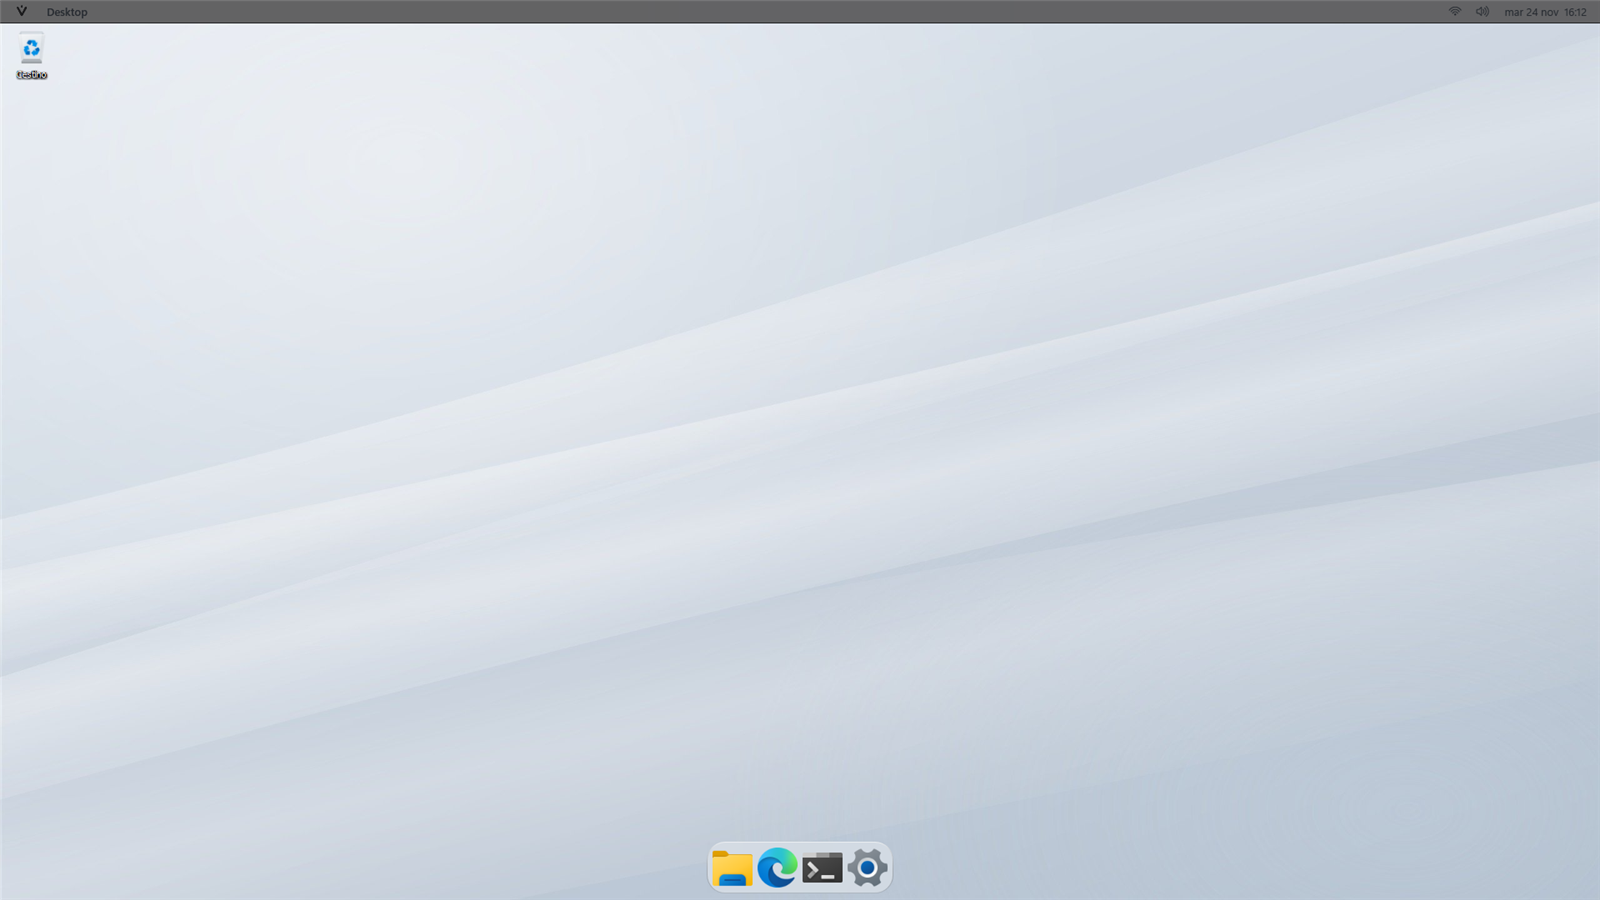
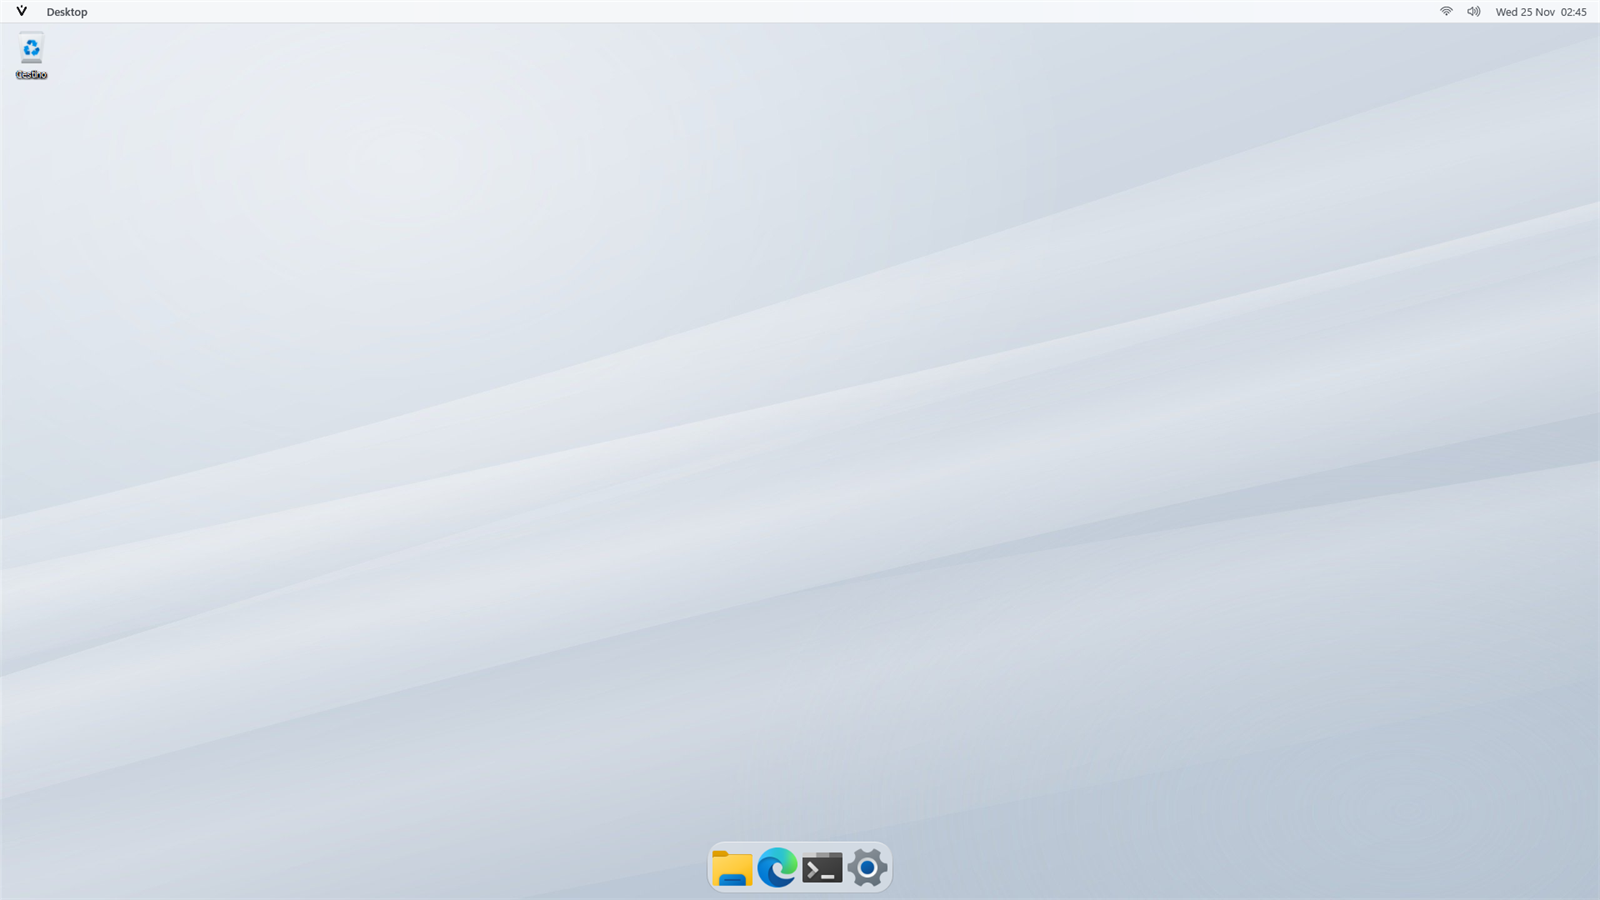
Refresh the README screenshots and add the settings window
New Aqua shots (dark, light, details) taken in English through a new
debug self-test step, culture:<name>, and a dark/light shot of the
settings window. Windows settings were restored with no differences.

Changed region(s): [[0.0, 0.0, 1.0, 0.0311]]

diff --git a/src/Veneer.App/SelfTest.cs b/src/Veneer.App/SelfTest.cs
@@ -15,7 +15,7 @@ namespace Veneer.App;
 /// <c>settings-reset:&lt;surface&gt;:&lt;key&gt;</c>, <c>settings-install:&lt;zip, with | for the drive colon&gt;</c>,
 /// <c>settings-report</c> (first report lines to the log), <c>settings-rename:&lt;old&gt;:&lt;new&gt;</c>, <c>settings-close</c>,
 /// <c>pin-offer[:first]</c> (the taskbar import offer; <c>first</c> saves the first-run flag on close), <c>pin-offer-shot</c>,
-/// <c>pin-offer-import</c>, <c>pin-offer-close</c>, <c>quit</c>.
+/// <c>pin-offer-import</c>, <c>pin-offer-close</c>, <c>culture:&lt;name&gt;</c> (e.g. <c>en-US</c>: UI texts and clock), <c>quit</c>.
 /// Example: <c>--self-test "wait:2,menu,wait:1,screenshot,close-menu,wait:1,quit"</c>.
 /// </summary>
 static class SelfTest
@@ -139,6 +139,12 @@ static class SelfTest
                     break;
                 case ["settings-close"]:
                     app.Settings?.Close();
+                    break;
+                case ["culture", var name]:
+                    // Screenshots for the public (English) README on a PC in another language: texts and clock.
+                    var culture = System.Globalization.CultureInfo.GetCultureInfo(name);
+                    System.Globalization.CultureInfo.CurrentCulture = System.Globalization.CultureInfo.CurrentUICulture = culture;
+                    System.Globalization.CultureInfo.DefaultThreadCurrentCulture = System.Globalization.CultureInfo.DefaultThreadCurrentUICulture = culture;
                     break;
                 case ["pin-offer"]:
                 case ["pin-offer", "first"]:

diff --git a/README.md b/README.md
@@ -27,6 +27,10 @@ The logo menu and the magnifying dock with its label:
 
 ![Aqua details](docs/screenshots/aqua-details.png)
 
+The settings window, in the Windows 11 style (dark and light):
+
+![Veneer settings](docs/screenshots/settings.png)
+
 ## Project status
 
 **Early. Not usable day to day yet.** The theme engine works and is tested. The app already draws blurred bars
